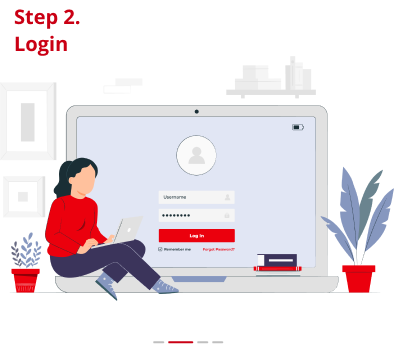
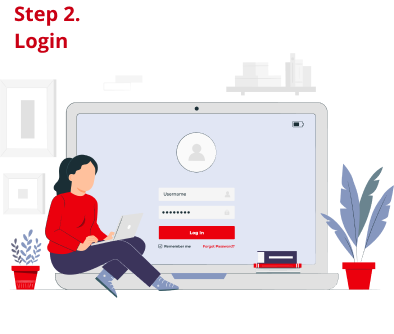
slider

diff --git a/assets/scss/organisms/_login.scss b/assets/scss/organisms/_login.scss
@@ -1,5 +1,7 @@
 .slp-login{
     padding: 20px 30px 50px;
+    margin: 0 auto;
+    width: 80%;
     &__main{
         background-size: contain;
         background-repeat: no-repeat;
@@ -26,7 +28,7 @@
         }
     }
     &__form{
-        width: 30%;
+        width: 40%;
         margin-right: 32px;
         &-main{
             display: flex;
@@ -37,7 +39,20 @@
             font-size: 15px;
             text-align: left;
         }
+        &-slider {
+            width: 40%;
+        }
     }
+
+    &__img-sec {
+        width: 100%;
+        height: auto;
+        img {
+            width: 100%;
+            height: 100%;
+        }
+    }
+
     .slp-button{
         height: 40px;
         margin-bottom: 15px;
@@ -72,6 +87,26 @@
             color: var(--clr-red);
             font-weight: $font-bold;
         }
+    }
+    .slick-dots li.slick-active button:before {
+        opacity: 1;
+        width: 30px;
+    }
+    .slick-dots li button:before {
+        height: 3px;
+        width: 25px;
+        background-color: #CA0014;
+        content: "";
+        top: 50%;
+    }
+    .slick-dots li button {
+        padding: 0;
+        width: 30px;
+    }
+    .slick-dots li {
+        width: auto;
+        height: auto;
+        margin: 0;
     }
 }
 @include mobile-tablet{

diff --git a/pages/login.html b/pages/login.html
@@ -64,7 +64,20 @@
             <div class="slp-login__log">Already have an account? <a href="">Login</a></div>
           </div>
           <div class="slp-login__form-slider">
-            sdsfd
+            <div class="slide-steps">
+              <div class="slp-login__img-sec">
+                <img src="../assets/images/Property-1.png" alt="">
+              </div>
+              <div class="slp-login__img-sec">
+                <img src="../assets/images/Property-2.png" alt="">
+              </div>
+              <div class="slp-login__img-sec">
+                <img src="../assets/images/Property-3.png" alt="">
+              </div>
+              <div class="slp-login__img-sec">
+                <img src="../assets/images/Property-4.png" alt="">
+              </div>
+            </div>
           </div>
       </div>
     </div>

diff --git a/assets/js/script.js b/assets/js/script.js
@@ -1,0 +1,10 @@
+//slider
+  $('.slide-steps').slick({
+    infinite: true,
+    slidesToShow: 1,
+    slidesToScroll: 1,
+    dots: true,
+    autoplay: true,
+    autoplaySpeed: 600,
+  });
+      
